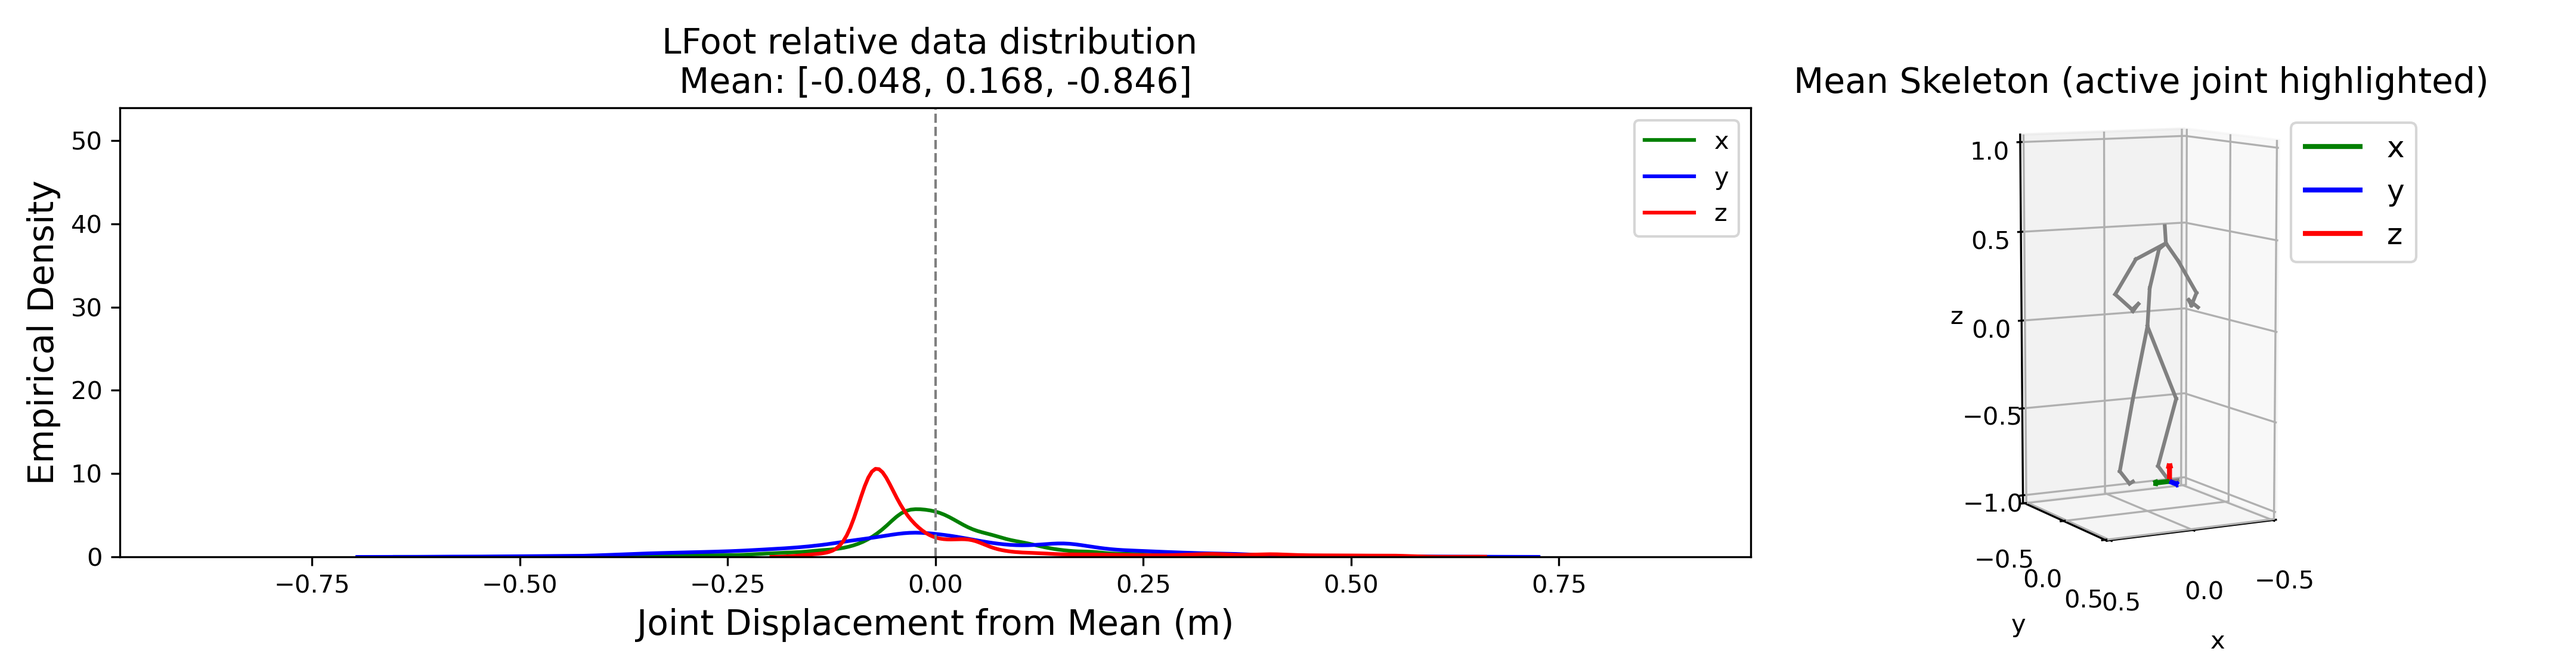
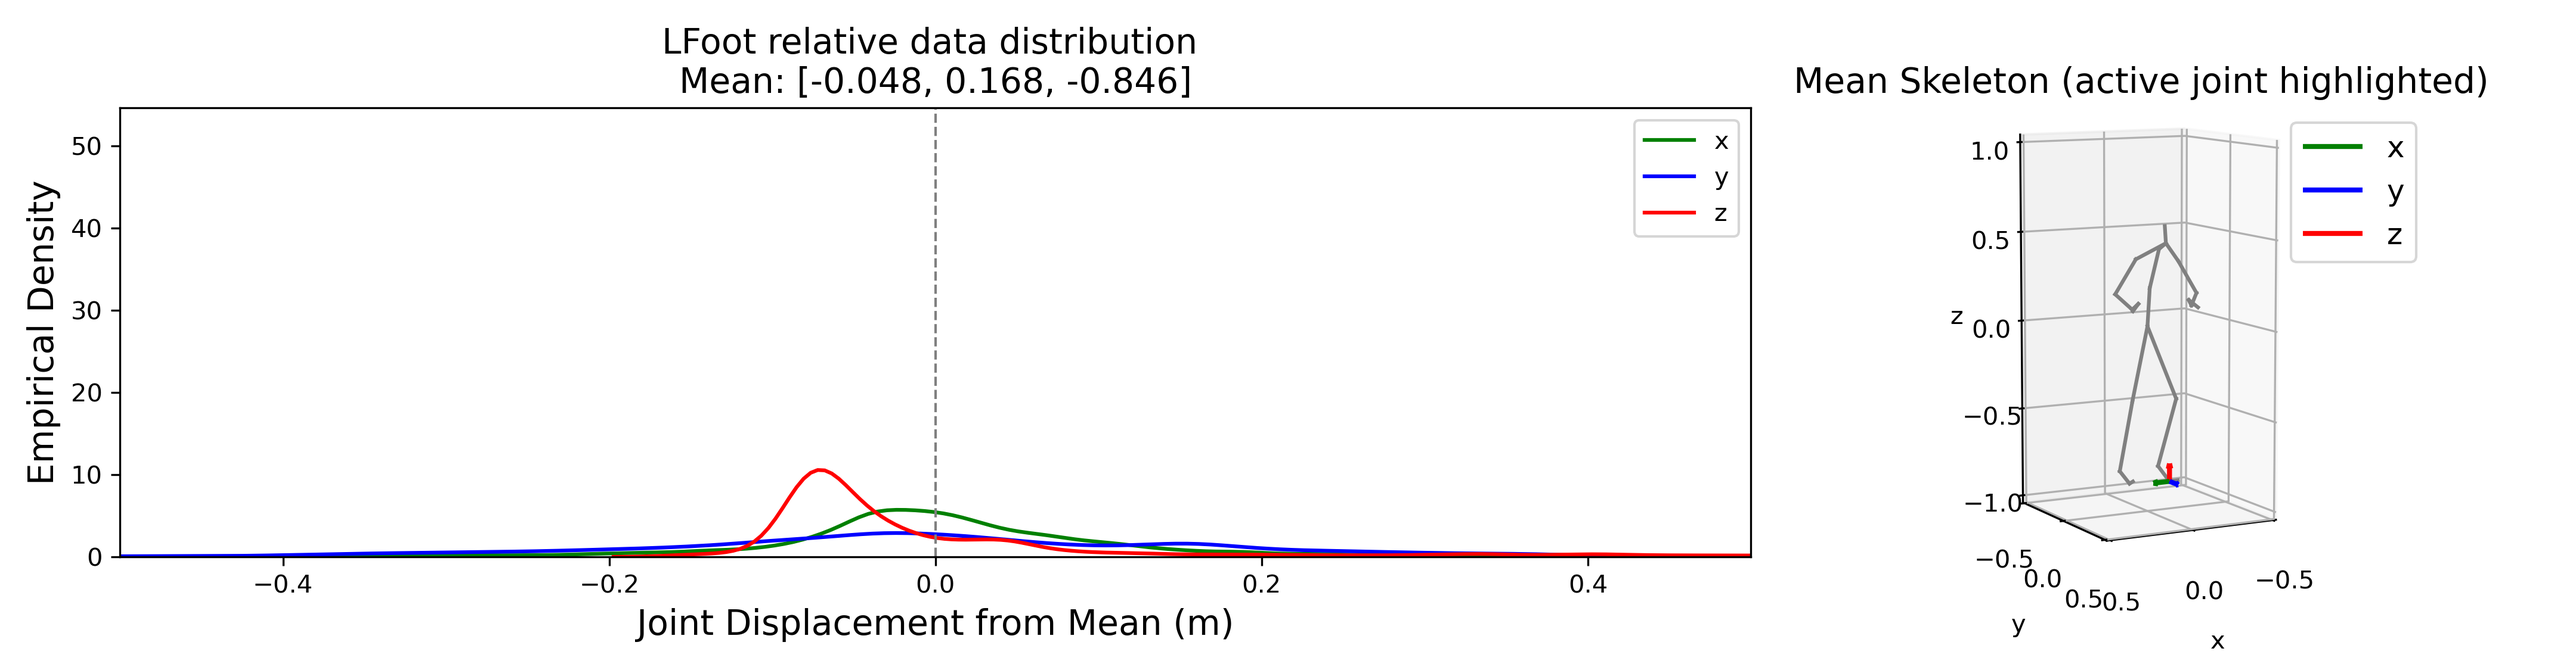
Create distributions for AMASS and update h36m with the same limits

diff --git a/exps/run/amass_overview.py b/exps/run/amass_overview.py
@@ -1,70 +1,81 @@
+import os
 
-from config import config
-import torch
 import numpy as np
-import argparse
+import glob
+
 import matplotlib.pyplot as plt
 
 from scipy.stats import gaussian_kde
+from tqdm import tqdm
 
-from datasets.h36m_eval import H36MEval
-# from datasets.h36m import H36MDataset
 
-from visualize_motion import visualize_continuous_motion
-
-config.motion.h36m_target_length = config.motion.h36m_target_length_eval
-dataset = H36MEval(config, 'test')
-
-incomplete_h36m_connections = [
-        (-1, 0), (-1, 4), (-1, 8),
-        (0, 1), (1, 2), (2, 3), 
-        (4, 5), (5, 6), (6, 7),
-        (8, 9), (9, 10), (10, 11), (14, 15),
-        (10, 12), (12, 13), (13, 14), (14, 15), (15, 16),
-        (10, 17), (17, 18), (18, 19), (19, 20), (20, 21)
+amass_connections = [
+        # Spine/Torso/Head
+        (0, 3), (3,6), (6, 9), (9, 12),
+        #Left leg
+        (0, 1), (1, 4), (4, 7),
+        # Right leg
+        (0, 2), (2, 5), (5, 8),
+        # Left arm
+        (6, 10), (10, 13), (13, 15), (15, 17),
+        # Right arm
+        (6, 11), (11, 14), (14, 16), (16, 18)
     ]
+joint_names = [
+    "Spine1",      # 3
+    "LKnee",       # 4
+    "RKnee",       # 5
+    "Spine2",      # 6
+    "LAnkle",      # 7
+    "RAnkle",      # 8
+    "Spine3",      # 9
+    "LFoot",       # 10
+    "RFoot",       # 11
+    "Neck",        # 12
+    "LCollar",     # 13
+    "RCollar",     # 14
+    "Head",        # 15
+    "LShoulder",   # 16
+    "RShoulder",   # 17
+    "LElbow",      # 18
+    "RElbow",      # 19
+    "LWrist",      # 20
+    "RWrist"       # 21
+]
 
-all_full_sequences = []
-for action in dataset._actions:
-    seqs = dataset.get_full_sequences_for_action(action)
-    for motion, root in seqs:
-        all_full_sequences.append(motion)  # motion shape: [num_frames, 32, 3]
-all_full_sequences = np.concatenate(all_full_sequences, axis=0)  # shape: [num_frames_total, 32, 3]
-print("Shape of all full sequences:", all_full_sequences.shape)
-used_joint_indexes = np.array([2,3,4,5,7,8,9,10,12,13,14,15,17,18,19,21,22,25,26,27,29,30]).astype(np.int64)
-
-# Only select the used joints
-all_full_sequences = all_full_sequences[:, used_joint_indexes, :]  # shape: [num_frames_total, 22, 3]
-
-# swap y and z axes
-all_full_sequences = all_full_sequences[:, :, [0, 2, 1]]
-# Compute mean positions for skeleton plot
-mean_positions = np.mean(all_full_sequences, axis=0)  # shape: [22, 3]
-
-relative_positions = all_full_sequences - mean_positions[np.newaxis, :, :]  # shape: [num_frames_total, 22, 3]
-relative_min = np.min(relative_positions)
-relative_max = np.max(relative_positions)
-dist_x_lim = [-max(relative_min, relative_max), max(relative_min, relative_max)]
-dist_x_lim = [-0.5, 0.5]
-
-
-
-joint_names = ["LKnee", "LAnkle", "LFoot", "LToe",
-               "RKnee", "RAnkle", "RFoot", "RToe",
-               "Spine", "Neck", "Head", "Nose",
-               "RShoulder", "RElbow", "RWrist", "RHand", "RThumb",
-               "LShoulder", "LElbow", "LWrist", "LHand", "LThumb"]
 fontsize = 14
 
+data_dir = "exported_gt_joints"
+txt_files = glob.glob(os.path.join(data_dir, "*.txt"))
+
+all_sequences = []
+
+for file in tqdm(txt_files, desc="Loading joint files"):
+    arr = np.loadtxt(file, delimiter=',')
+    arr = arr.reshape(arr.shape[0], -1, 3)
+    all_sequences.append(arr)
+all_sequences = np.concatenate(all_sequences, axis=0)  # shape: [num_frames_total, num_joints, 3]
+print("Shape of all sequences:", all_sequences.shape)
+
+assert all_sequences.shape[1] == len(joint_names), f"The number of joints does not match the joint names list. \n All sequences shape: {all_sequences.shape}, len(joint_names): {len(joint_names)}"
+# Compute mean positions for skeleton plot
+mean_positions = np.mean(all_sequences, axis=0)  # shape: [num_joints, 3]
+
+relative_positions = all_sequences - mean_positions[np.newaxis, :, :]  # shape: [num_frames_total, num_joints, 3]
+flat_rel = relative_positions.reshape(-1)
+low, high = np.percentile(flat_rel, [1, 99])
+# dist_x_lim = [low, high]
+dist_x_lim = [-0.5, 0.5]
+
+num_hist_bins = 200  # You can adjust this
+
 global_ymax = 0
-for joint_idx in range(all_full_sequences.shape[1]):
-    joint_data = all_full_sequences[:, joint_idx, :]
+for joint_idx in range(all_sequences.shape[1]):
+    joint_data = all_sequences[:, joint_idx, :]
     joint_data_centered = joint_data - np.mean(joint_data, axis=0)
     for i in range(3):  # x, y, z
-        kde = gaussian_kde(joint_data_centered[:, i])
-        x_vals = np.linspace(dist_x_lim[0], dist_x_lim[1], 200)
-        density = kde(x_vals)
-        global_ymax = max(global_ymax, np.max(density))
+        hist, bins = np.histogram(joint_data_centered[:, i], bins=num_hist_bins, range=dist_x_lim, density=True)
+        global_ymax = max(global_ymax, np.max(hist))
 
 for joint_idx, joint_name in enumerate(joint_names):
     # fig = plt.figure(figsize=(14.4, 5.2)) # 3 per page in latex
@@ -74,13 +85,14 @@ for joint_idx, joint_name in enumerate(joint_names):
     
     # --- Distribution plot (KDE) ---
     ax_dist = fig.add_subplot(gs[0])
-    joint_data = all_full_sequences[:, joint_idx, :]  # shape: [num_frames, 3]
+    joint_data = all_sequences[:, joint_idx, :]  # shape: [num_frames, 3]
     joint_data_centered = joint_data - np.mean(joint_data, axis=0)
     colors = ['green', 'blue', 'red']
     for i, axis in enumerate(['x', 'y', 'z']):
-        kde = gaussian_kde(joint_data_centered[:, i])
-        x_vals = np.linspace(joint_data_centered[:, i].min(), joint_data_centered[:, i].max(), 200)
-        ax_dist.plot(x_vals, kde(x_vals), color=colors[i], label=axis)
+        data = joint_data_centered[:, i]
+        hist, bins = np.histogram(data, bins=num_hist_bins, range=dist_x_lim, density=True)
+        bin_centers = (bins[:-1] + bins[1:]) / 2
+        ax_dist.plot(bin_centers, hist, color=colors[i], label=axis)
     ax_dist.axvline(0, color='gray', linestyle='--', linewidth=1)
     ax_dist.set_xlim(dist_x_lim)
     ax_dist.set_ylim([0, global_ymax * 1.05])
@@ -104,9 +116,9 @@ for joint_idx, joint_name in enumerate(joint_names):
     ax_skel.set_xticks(np.linspace(-0.5, 0.5, 3))  
     ax_skel.set_yticks(np.linspace(-0.5, 0.5, 3)) 
 
-    mean_positions = np.vstack([mean_positions, np.array([0, 0, 0])])
+    # mean_positions = np.vstack([mean_positions, np.array([0, 0, 0])])
     # Plot skeleton
-    for (i, j) in incomplete_h36m_connections:
+    for (i, j) in amass_connections:
         ax_skel.plot(
             [mean_positions[i, 0], mean_positions[j, 0]],
             [mean_positions[i, 1], mean_positions[j, 1]],
@@ -129,7 +141,7 @@ for joint_idx, joint_name in enumerate(joint_names):
     mean_text = f"Mean: [{joint_pos[0]:.3f}, \n{joint_pos[1]:.3f}, \n{joint_pos[2]:.3f}]"
     # ax_skel.text2D(0.05, 0.95, mean_text, transform=ax_skel.transAxes, fontsize=fontsize, verticalalignment='top')
 
-    ax_skel.view_init(elev=8.5, azim=62)
+    ax_skel.view_init(elev=5.6, azim=-40)
 
     ax_skel.set_title("Mean Skeleton (active joint highlighted)", fontsize=fontsize)
     ax_skel.legend( loc='upper left', 
@@ -144,5 +156,6 @@ for joint_idx, joint_name in enumerate(joint_names):
 
     fig.canvas.mpl_connect('button_release_event', print_view)
     plt.tight_layout()
-    plt.savefig('dataset_overview/h36m_joint_distribution_{}.png'.format(joint_name), dpi=300)
+    plt.savefig('dataset_overview/AMASS/amass_joint_distribution_{}.png'.format(joint_name), dpi=300)
+    # plt.show()
     plt.close(fig)
